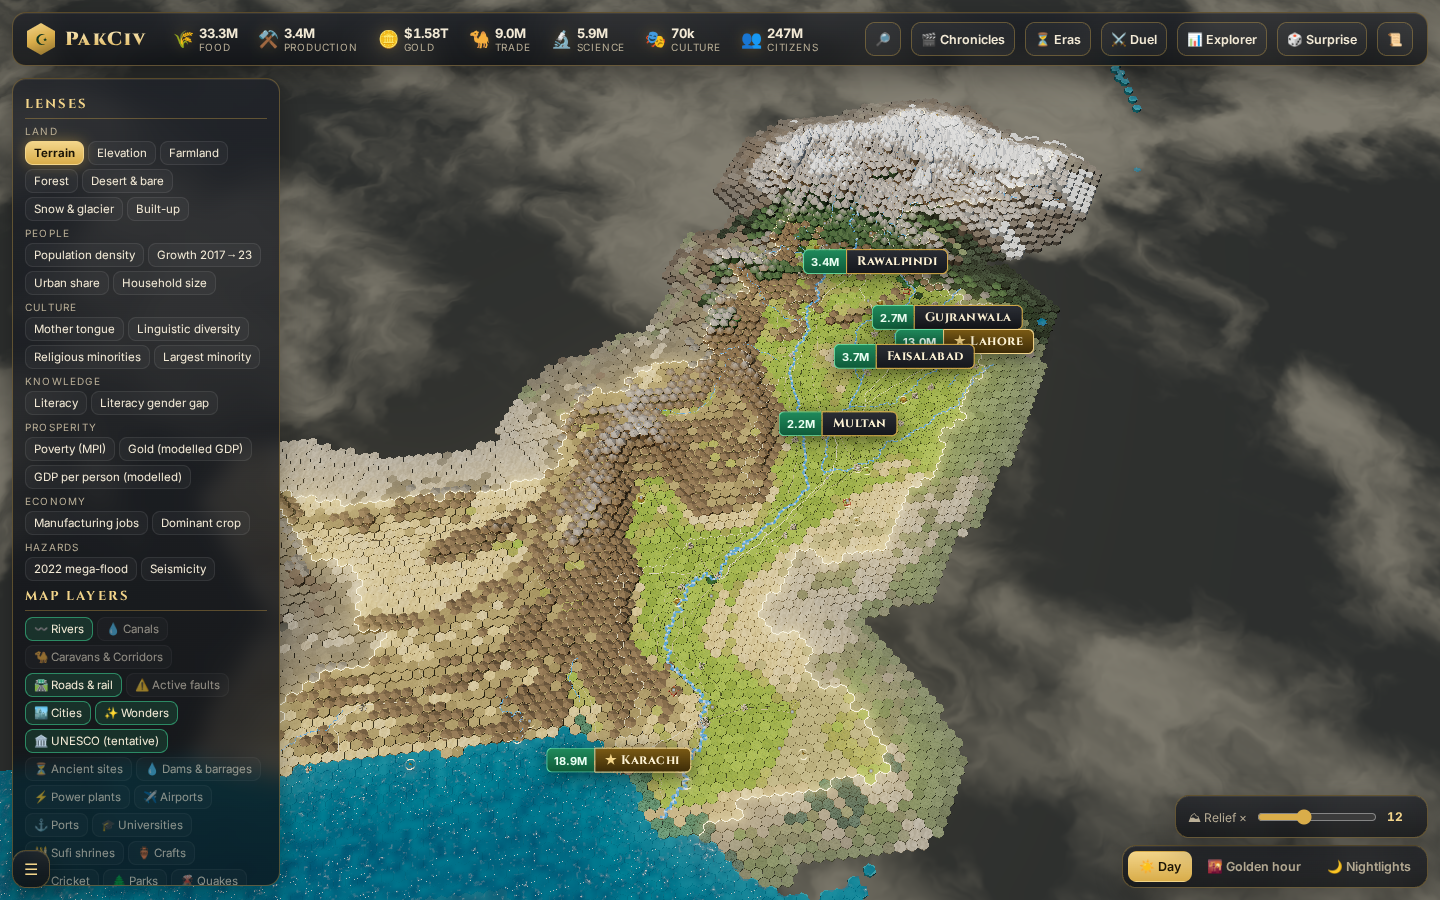
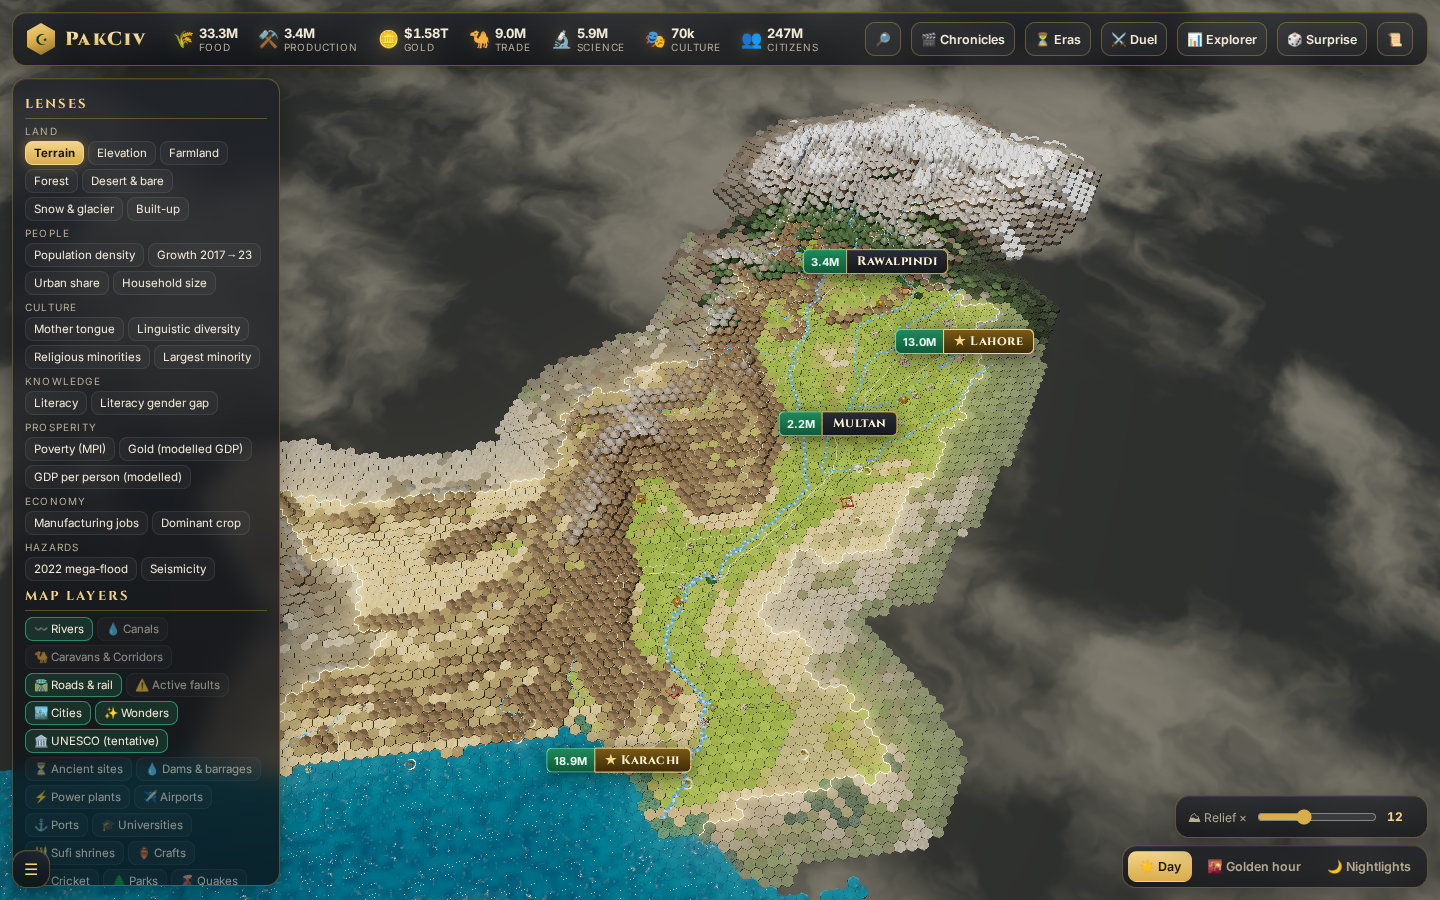
Intro fly-in, hover ring, ocean mask fix, prod verification script, PROGRESS 02 + previews 00-12

diff --git a/web/src/app.js b/web/src/app.js
@@ -52,6 +52,9 @@ export class App {
     const dens = data.cells.density;
     board.setGlow((c) => { const v = dens[c]; return v == null ? 0 : Math.max(0, Math.min(1.6, (Math.log10(Math.max(v, 1)) - 2.0) / 1.4)) ** 1.6; });
     this.lens = new LensEngine(this);
+    const rg = new THREE.RingGeometry(8.6, 10.2, 6, 1, Math.PI / 2); rg.rotateX(-Math.PI / 2);
+    this.hoverRing = new THREE.Mesh(rg, new THREE.MeshBasicMaterial({ color: new THREE.Color(2.2, 1.8, 0.9), toneMapped: false, transparent: true, depthWrite: false }));
+    this.hoverRing.renderOrder = 14; this.hoverRing.visible = false; stage.scene.add(this.hoverRing);
     this.buildHud();
     this.inspector = new Inspector(this);
     this.search = new Search(this);
@@ -72,7 +75,36 @@ export class App {
       this.flood?.tick(t);
       this.eras?.tick(t);
     });
-    this._restoreHash();
+    if (location.hash.length > 1) this._restoreHash(); else this.intro();
+  }
+
+  intro() {
+    const N = this.atlas.nation;
+    const k2 = this.sites.sites.find((s) => s.name === 'K2');
+    const card = el('div', { class: 'intro' }, [
+      el('div', { class: 'intro-kicker', text: 'A strategy-map atlas built from real public data' }),
+      el('div', { class: 'intro-title', text: 'PAKCIV' }),
+      el('div', { class: 'intro-stats' }, [
+        el('span', {}, [el('b', { text: fmt.big(N.pop_census2023) }), ' people · Census 2023']),
+        el('span', {}, [el('b', { text: String(N.district_count) }), ' districts']),
+        el('span', {}, [el('b', { text: fmt.int(N.hex_count) }), ' hexes']),
+        el('span', {}, [el('b', { text: `0 → ${fmt.int(k2?.facts?.elevation_m)} m` }), ' sea to K2']),
+      ]),
+      el('div', { class: 'intro-hint', text: 'Drag to pan · right-drag to orbit · scroll to zoom · T for guided tours · / to search' }),
+    ]);
+    this.hud.append(card);
+    document.body.classList.add('intro-on');
+    if (k2) {
+      const p = this.sites.worldPos(k2);
+      this.stage.controls.target.set(p.x, p.y, p.z);
+      this.stage.camera.position.set(p.x + 120, p.y + 260, p.z + 420);
+    }
+    this.setMood('golden');
+    setTimeout(() => { this.home(); this.stage.flight && (this.stage.flight.duration = 4.5); }, 900);
+    setTimeout(() => { this.setMood('day'); }, 4200);
+    setTimeout(() => { card.classList.add('gone'); document.body.classList.remove('intro-on'); }, 5200);
+    setTimeout(() => card.remove(), 6500);
+    card.addEventListener('click', () => { card.classList.add('gone'); document.body.classList.remove('intro-on'); });
   }
 
   home(instant = false) {
@@ -245,7 +277,7 @@ export class App {
       this.pointer.set((e.clientX / dom.clientWidth) * 2 - 1, -(e.clientY / dom.clientHeight) * 2 + 1);
       this._pendingPick = [e.clientX, e.clientY];
     });
-    dom.addEventListener('pointerleave', () => { this.tip.classList.add('hidden'); });
+    dom.addEventListener('pointerleave', () => { this.tip.classList.add('hidden'); this.hoverRing.visible = false; });
     dom.addEventListener('pointerup', (e) => {
       if (!down || Math.hypot(e.clientX - down[0], e.clientY - down[1]) > 5) return;
       this.pointer.set((e.clientX / dom.clientWidth) * 2 - 1, -(e.clientY / dom.clientHeight) * 2 + 1);
@@ -267,7 +299,10 @@ export class App {
       const site = this.sites.pick(this.raycaster);
       if (site) { this.showSiteTip(site, x, y); dom.style.cursor = 'pointer'; return; }
       const hit = this.board.pick(this.raycaster);
-      dom.style.cursor = hit && this.data.world.owner[hit.cell] >= 0 ? 'pointer' : '';
+      const own = hit && this.data.world.owner[hit.cell] >= 0;
+      dom.style.cursor = own ? 'pointer' : '';
+      this.hoverRing.visible = !!own;
+      if (own) { const [hx, hy, hz] = this.cellWorld(hit.cell); this.hoverRing.position.set(hx, hy + 0.5, hz); }
       if (!hit) { this.tip.classList.add('hidden'); return; }
       this.showTip(hit.cell, x, y);
     });

diff --git a/web/src/scene/board.js b/web/src/scene/board.js
@@ -23,6 +23,10 @@ export class Board {
     this.exaggeration = 12;
     const n = this.grid.size;
     // Which cells get a prism: everything except open sea far from any land.
+    // true ocean = sea cells connected to the Arabian Sea (bottom-left corner); inland "sea" slivers become void
+    this.ocean = new Uint8Array(world.owner.length);
+    { const q = [this.grid.index(0, this.grid.rows - 1)]; this.ocean[q[0]] = 1;
+      for (let h = 0; h < q.length; h++) for (const j of this.grid.neighbours(q[h])) if (!this.ocean[j] && world.owner[j] === -1) { this.ocean[j] = 1; q.push(j); } }
     const dist = this._coastDistance();
     this.coastDist = dist;
     this.cells = [];
@@ -30,8 +34,8 @@ export class Board {
     this.foreignDist = this._foreignDistance();
     this.FOG_HEX = 7;
     for (let i = 0; i < n; i++) {
-      if (world.owner[i] === -1) { if (dist[i] <= 14) this.cells.push(i); }
-      else if (world.owner[i] >= 0 || this.foreignDist[i] <= this.FOG_HEX) this.cells.push(i);
+      if (world.owner[i] === -1) { if (dist[i] <= 14 && this.ocean[i]) this.cells.push(i); }
+      else if (world.owner[i] >= 0 || (this.foreignDist[i] <= this.FOG_HEX && !(world.owner[i] === -3 && this.foreignDist[i] > 2))) this.cells.push(i);
     }
     this.instanceOf = new Int32Array(n).fill(-1);
     this.cells.forEach((c, k) => { this.instanceOf[c] = k; });
@@ -74,7 +78,7 @@ export class Board {
   waterMask() {
     const g = this.grid, w = this.world, data = new Uint8Array(g.size * 4);
     for (let i = 0; i < g.size; i++) {
-      const sea = w.owner[i] === -1 || w.owner[i] === -3;
+      const sea = (w.owner[i] === -1 && this.ocean[i]) || (w.owner[i] === -3 && this.foreignDist[i] <= 2);
       data[i * 4] = sea ? 255 : 0; data[i * 4 + 3] = 255;
     }
     return data;

diff --git a/web/src/style.css b/web/src/style.css
@@ -211,3 +211,17 @@ body[data-mood=night] .glass { background: linear-gradient(180deg, rgba(14, 17, 
 @media (max-width: 1300px) { .yield .k { display: none; } }
 .timebar { left: 600px; right: 318px; transform: none; width: auto; min-width: 0; }
 @media (max-width: 1360px) { .timebar { left: 300px; bottom: 120px; } }
+/* ---------- intro card */
+.intro { position: absolute; left: 50%; top: 42%; transform: translate(-50%, -50%); text-align: center; pointer-events: auto; cursor: pointer;
+  animation: introIn 1.4s cubic-bezier(.2,.8,.2,1); transition: opacity 1.2s ease, transform 1.2s ease; text-shadow: 0 4px 30px rgba(0,0,0,0.7); }
+.intro.gone { opacity: 0; transform: translate(-50%, -60%); pointer-events: none; }
+@keyframes introIn { from { opacity: 0; transform: translate(-50%, -40%); letter-spacing: 0.6em; } to { opacity: 1; } }
+.intro-kicker { font-size: 13px; letter-spacing: 0.3em; text-transform: uppercase; color: var(--gold-2); }
+.intro-title { font-family: var(--serif); font-weight: 900; font-size: 96px; letter-spacing: 0.22em; line-height: 1.1;
+  background: linear-gradient(180deg, #fff7dc 20%, var(--gold) 70%, var(--gold-dim)); -webkit-background-clip: text; background-clip: text; color: transparent;
+  filter: drop-shadow(0 6px 24px rgba(0,0,0,0.6)); }
+.intro-stats { display: flex; gap: 22px; justify-content: center; font-size: 14px; color: #f3ead6; margin-top: 6px; }
+.intro-stats b { font-family: var(--serif); color: #fff1c8; font-size: 20px; }
+.intro-hint { margin-top: 18px; font-size: 12px; color: var(--ink-dim); }
+.labels-layer { transition: opacity 0.8s; }
+body.intro-on .labels-layer { opacity: 0; }

diff --git a/PROGRESS.md b/PROGRESS.md
@@ -2,6 +2,25 @@
 
 Newest entries at the top. Screenshots live in `previews/`.
 
+## 02 · Explore & Discover suite + production verification (2026-11-27)
+**Built**
+- **Chronicles of Pakistan** — 7 cinematic tours (K2 → Arabian Sea, Indus Food Machine, Industrial Belt, 5,000 Years of
+  Wonders, The 2022 Deluge, Tongues of the Indus, Caravans & Corridors); every caption number is computed from the data.
+- **2022 flood-surge playback** — UNOSAT weekly district extents (Aug → Dec 2022) animate rising water caps; live km²,
+  exposed people, NDMA deaths, PDNA damage. District headlines use the cloud-free weekly peak (the VIIRS monthly composite
+  also catches flooded rice paddies — documented in the Almanac). Worst hit: Jacobabad, Larkana, Jaffarabad, Shikarpur.
+- **Era Time-Machine** — 8 eras / 42 dated sites with light beams, era lighting and era-specific layers.
+- **District Duel** (radar of percentiles, crowns, data-derived verdict), **Explorer** (sortable table + scatter, log axes,
+  Pearson r, brushing linked to the 3D map), **Surprise me** (17 live-computed outliers), fuzzy **Search**, **Almanac**
+  (23 sources with file-level provenance: url, bytes, sha256, retrieval date).
+- Cinematic opening fly-in from K2, hover ring, lens-tinted mountains, label decluttering, shareable URL hash.
+- **Production build verified**: `npm run build && npm run verify` drives every lens, mood, layer, panel, era and tour
+  plus real mouse input against `vite preview` → **0 console errors, 0 warnings, 0 failed requests**.
+
+**Screenshots** — `previews/00-intro.png`, `04-lahore-wonders-closeup.png`, `05-flood-surge-playback.png`,
+`06-era-time-machine.png`, `07-district-duel.png`, `08-explorer.png`, `09-surprise-me.png`, `10-almanac.png`,
+`11-mother-tongue-lens.png`, `12-prod-build-after-sweep.png` (01–03 refreshed).
+
 ## 01 · 3D board, real data, lenses & lighting moods (2026-11-27)
 **Built**
 - Three.js/WebGL renderer (Vite static app): 3,409 Pakistan hexes (20 km corner-to-corner) as one `InstancedMesh` of
